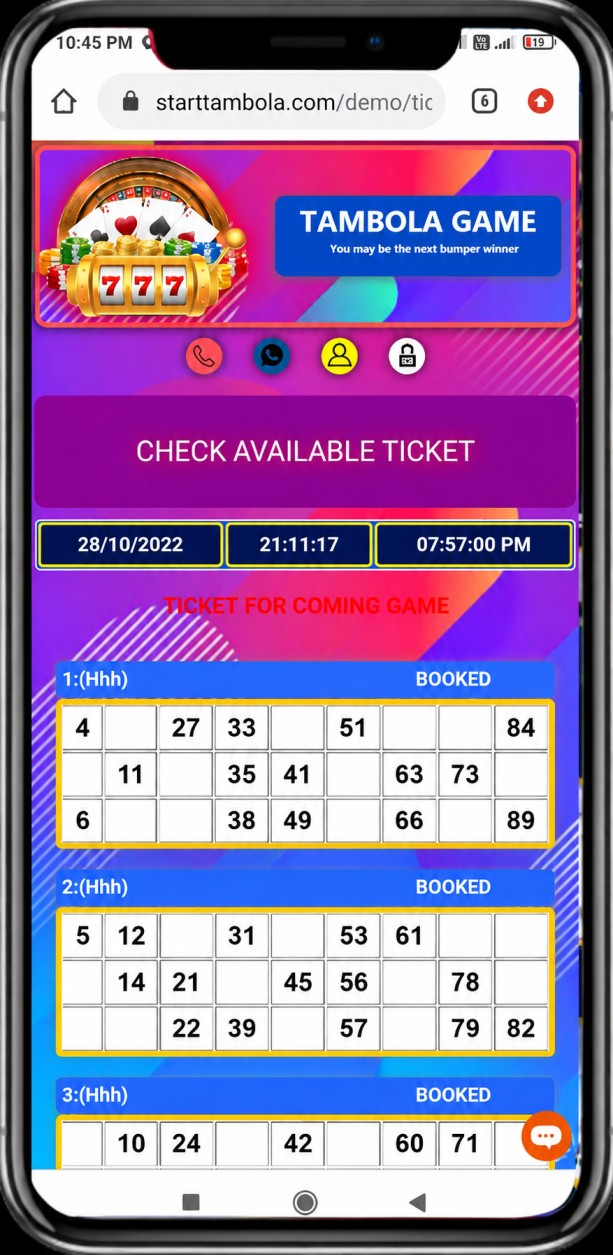
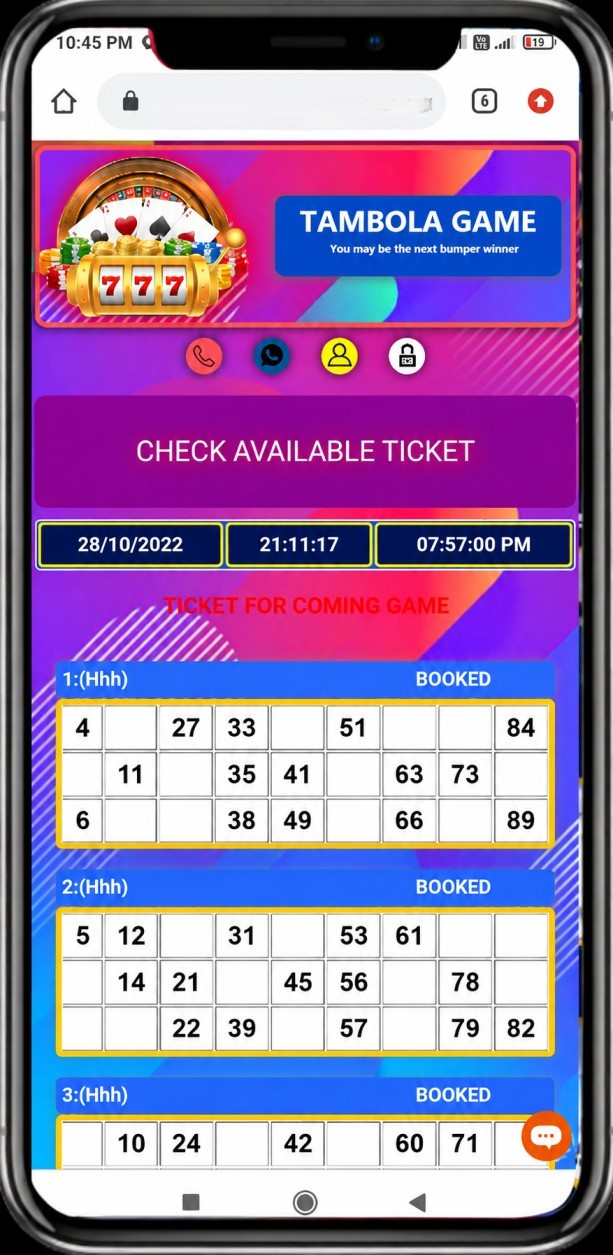
payment correction

Changed region(s): [[0.248, 0.0622, 0.7129, 0.0932], [0.5889, 0.404, 0.6199, 0.4661], [0.3409, 0.404, 0.3719, 0.4661]]

diff --git a/src/app/api/cashfree/create-order/route.ts b/src/app/api/cashfree/create-order/route.ts
@@ -5,7 +5,7 @@ const API_VERSION = "2025-01-01";
 
 // Production amounts
 const PLAN_AMOUNTS: Record<string, number> = {
-  monthly: 1,
+  monthly: 3600,
   yearly: 25200,
 };
 
